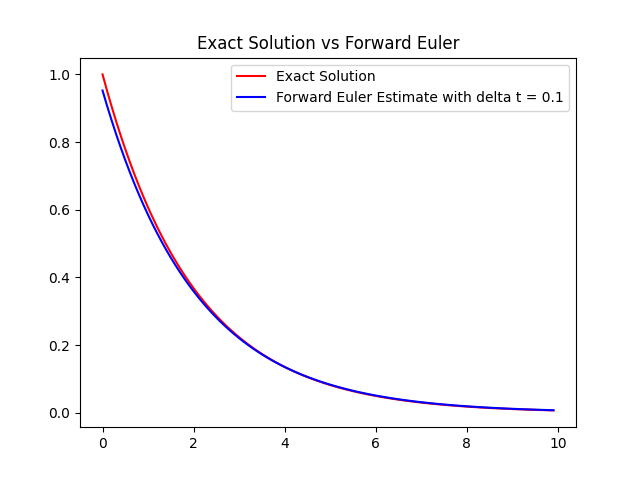
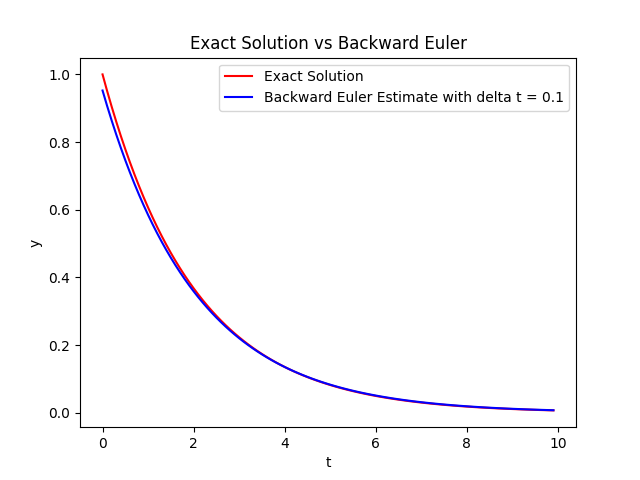
fix axis labels

diff --git a/HW3/Backward Euler.py b/HW3/Backward Euler.py
@@ -21,8 +21,10 @@ for i in delta_t:
         n+=1
     # Graph
     plt.plot(t, exact_y, color='red', label='Exact Solution')
-    plt.plot(t, ylist, color='blue', label='Forward Euler Estimate with delta t = ' + str(i))
-    plt.title('Exact Solution vs Forward Euler')
+    plt.plot(t, ylist, color='blue', label='Backward Euler Estimate with delta t = ' + str(i))
+    plt.title('Exact Solution vs Backward Euler')
+    plt.xlabel('t')
+    plt.ylabel('y')
     plt.legend()
     plt.show()
       
